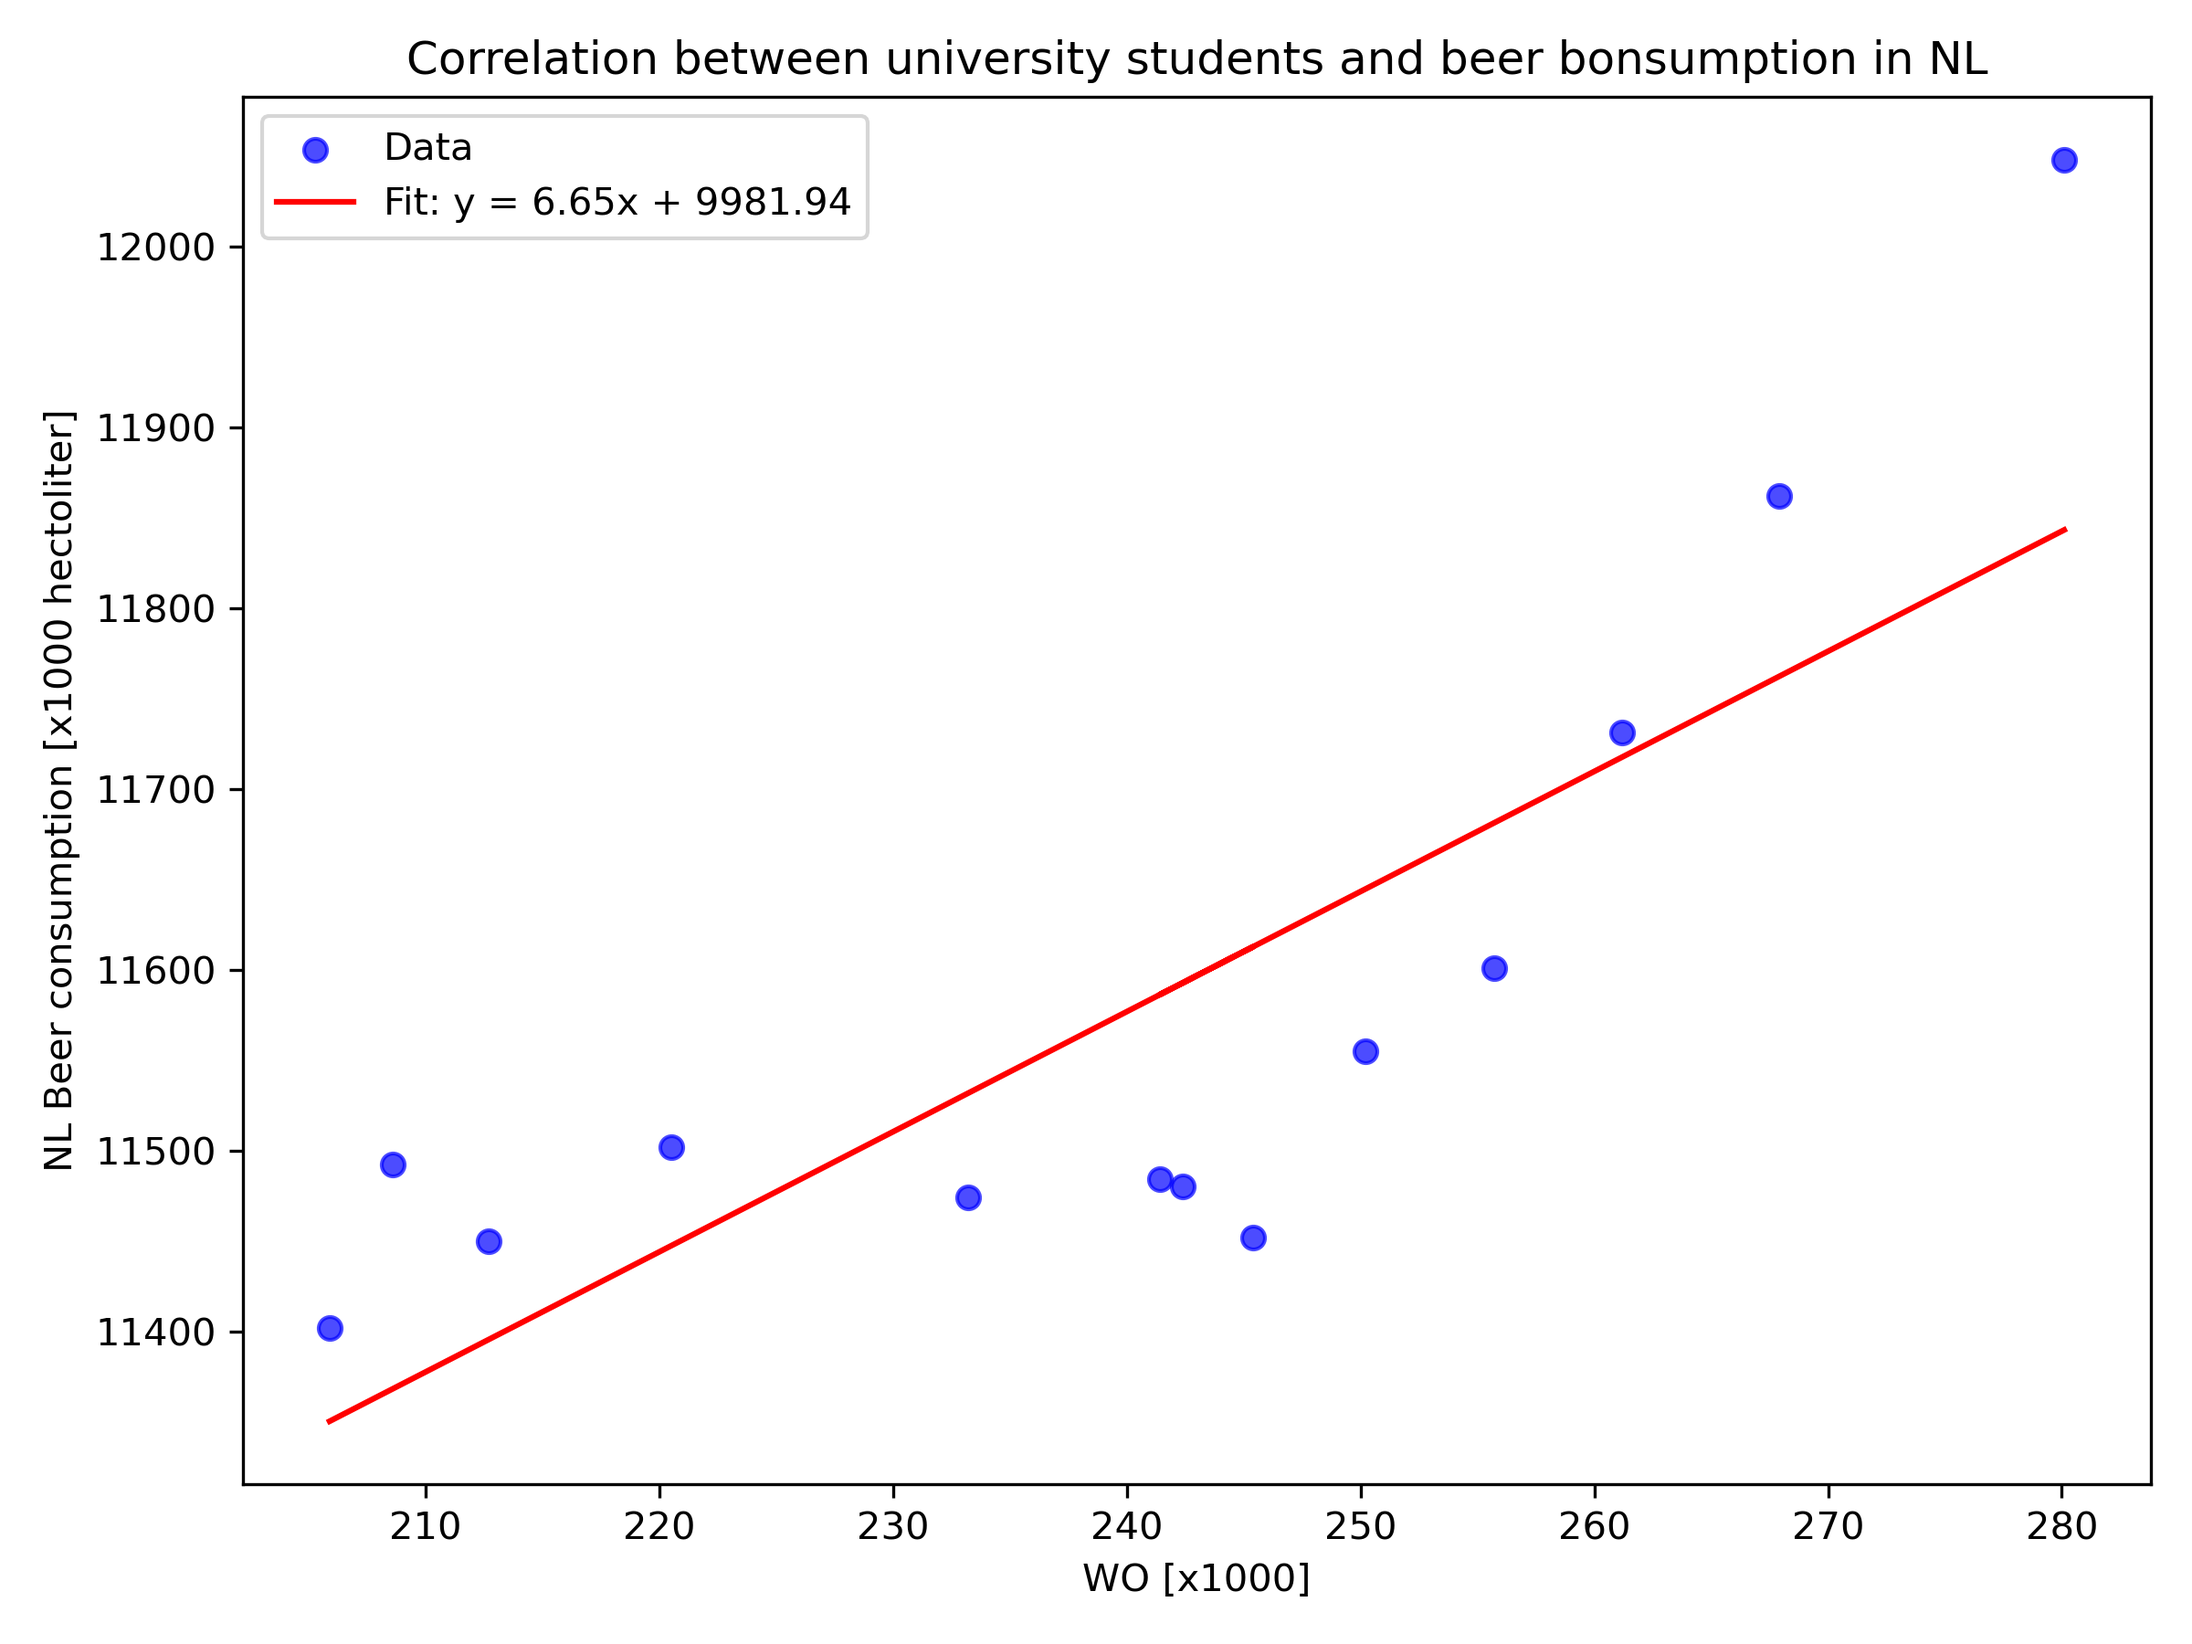
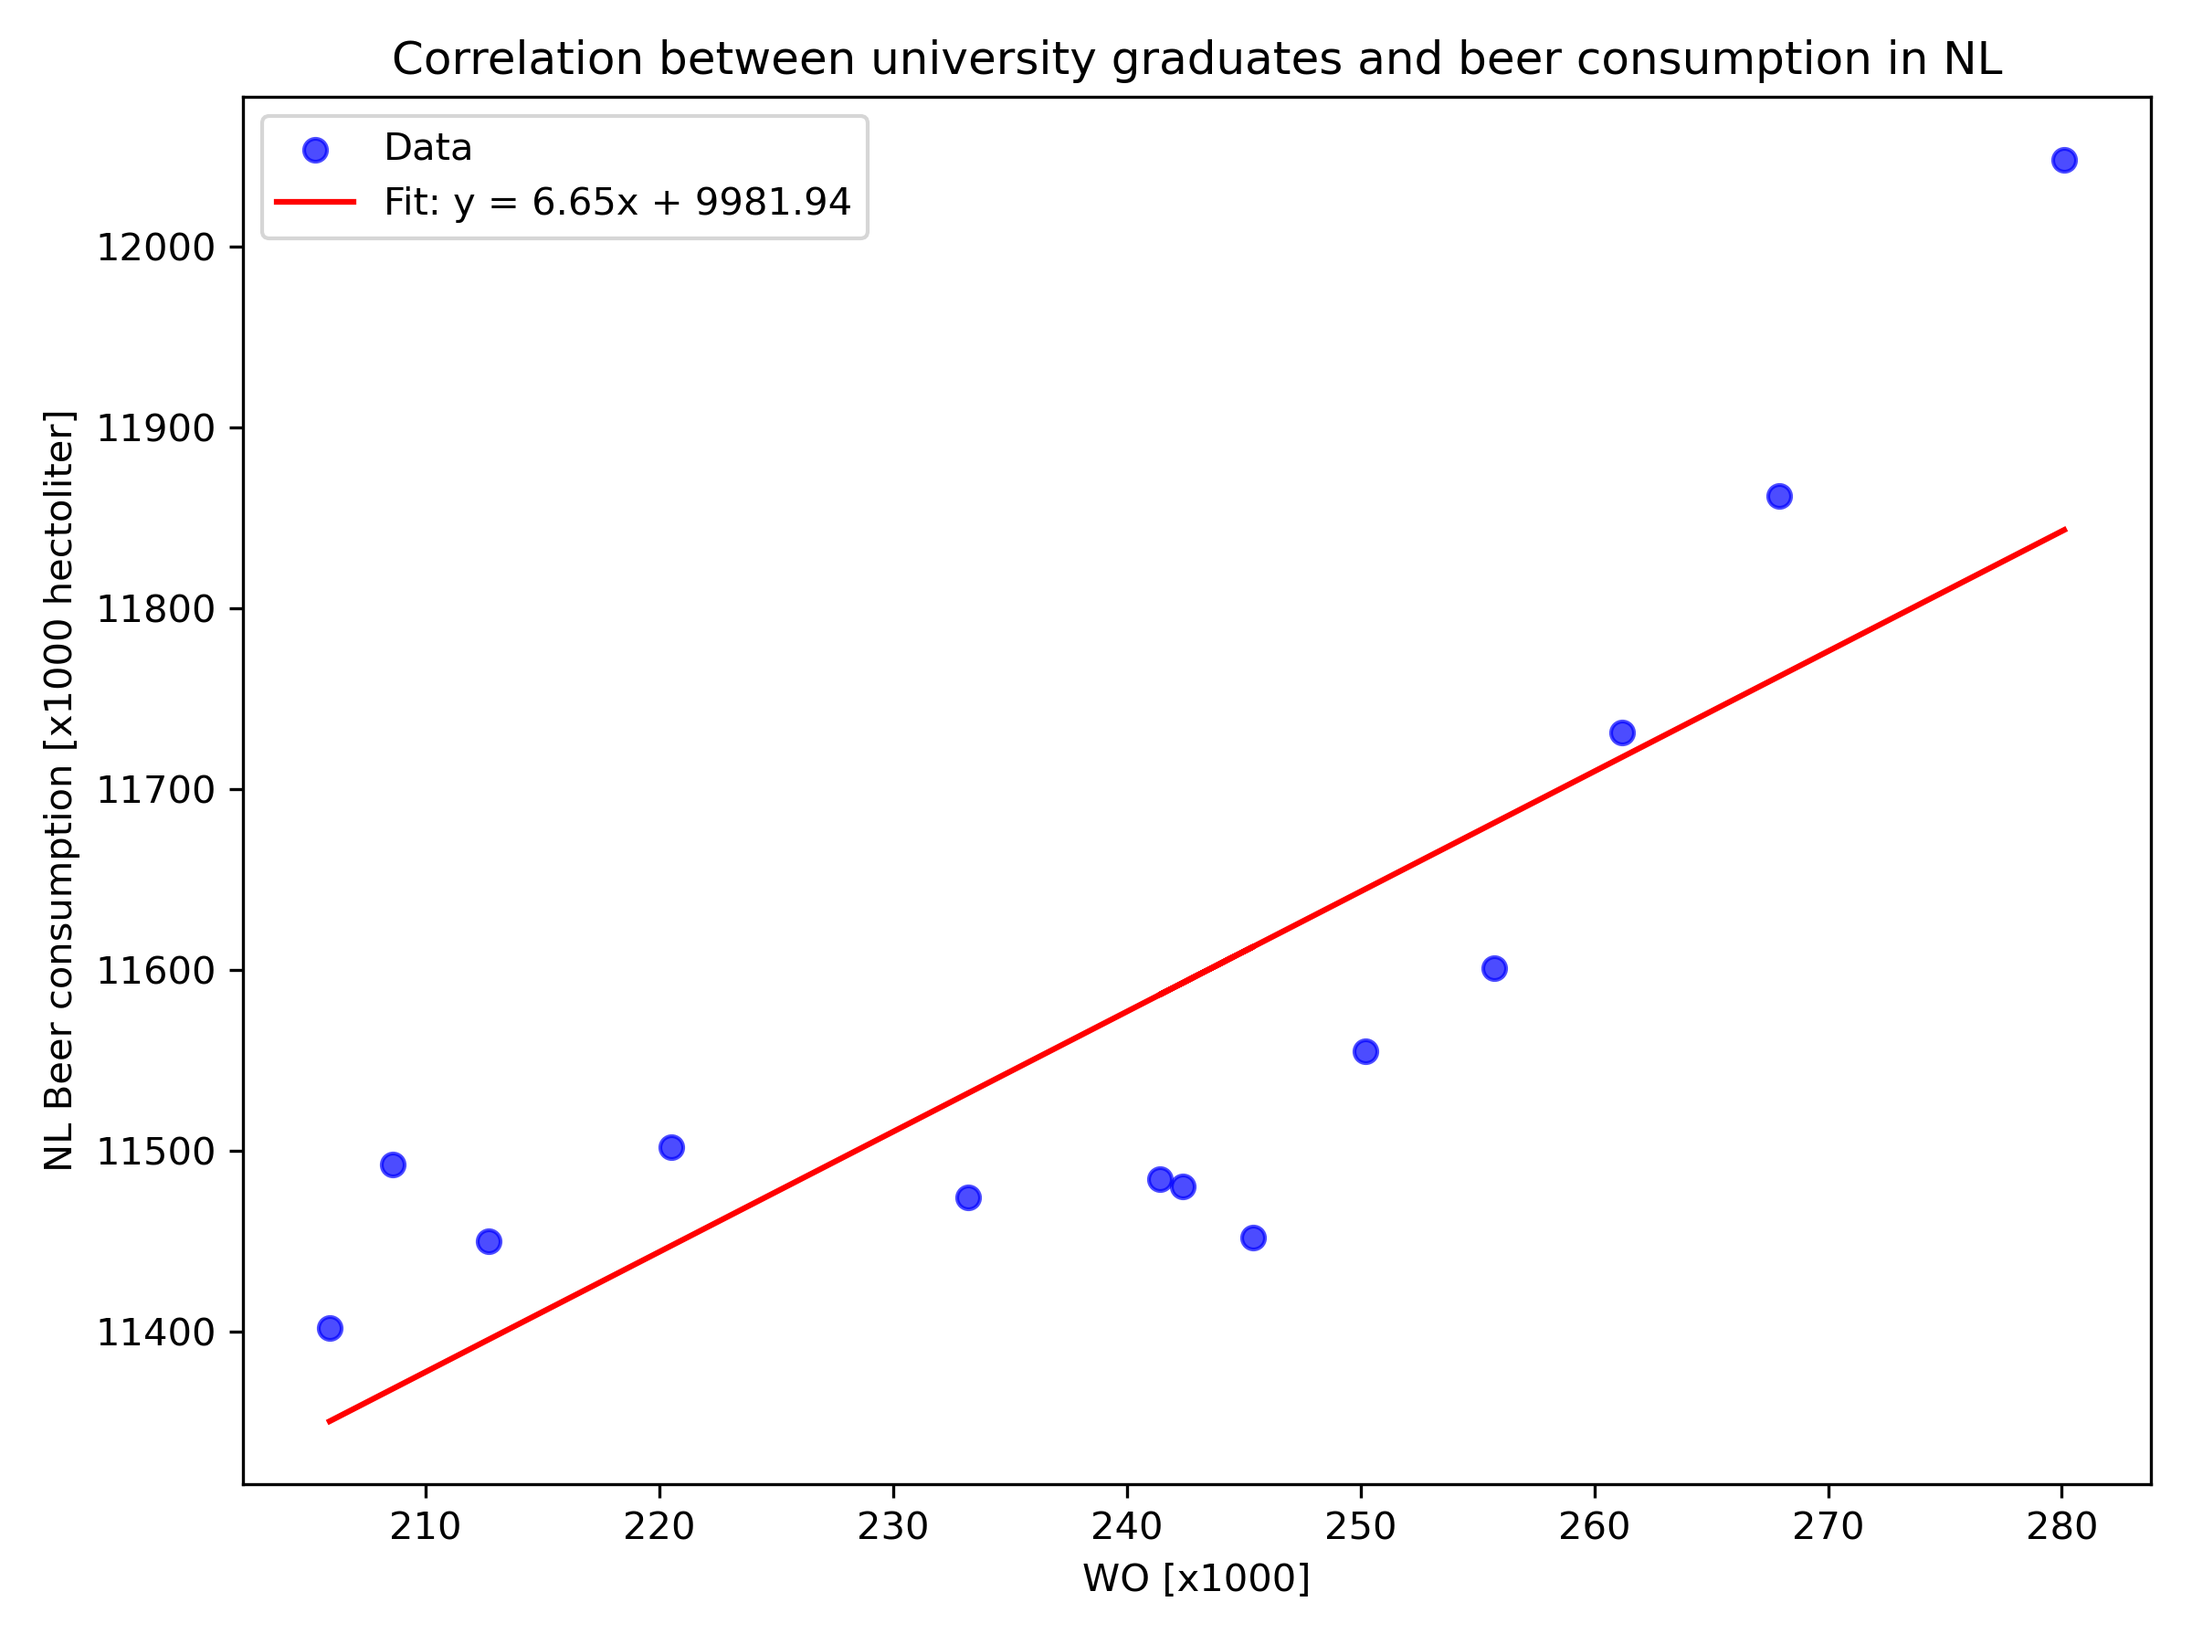
fixed some minor mistakes

Changed region(s): [[0.1875, 0.0311, 0.9062, 0.0622]]

diff --git a/plotting.py b/plotting.py
@@ -19,7 +19,7 @@ plt.plot(x, m*x + b, color="red", label=f"Fit: y = {m:.2f}x + {b:.2f}")
 # Labels and title
 plt.xlabel("WO [x1000]")
 plt.ylabel("NL Beer consumption [x1000 hectoliter]")
-plt.title("Correlation between university students and beer bonsumption in NL")
+plt.title("Correlation between university graduates and beer consumption in NL")
 plt.legend()
 
 # Save to file (DPI=300)
